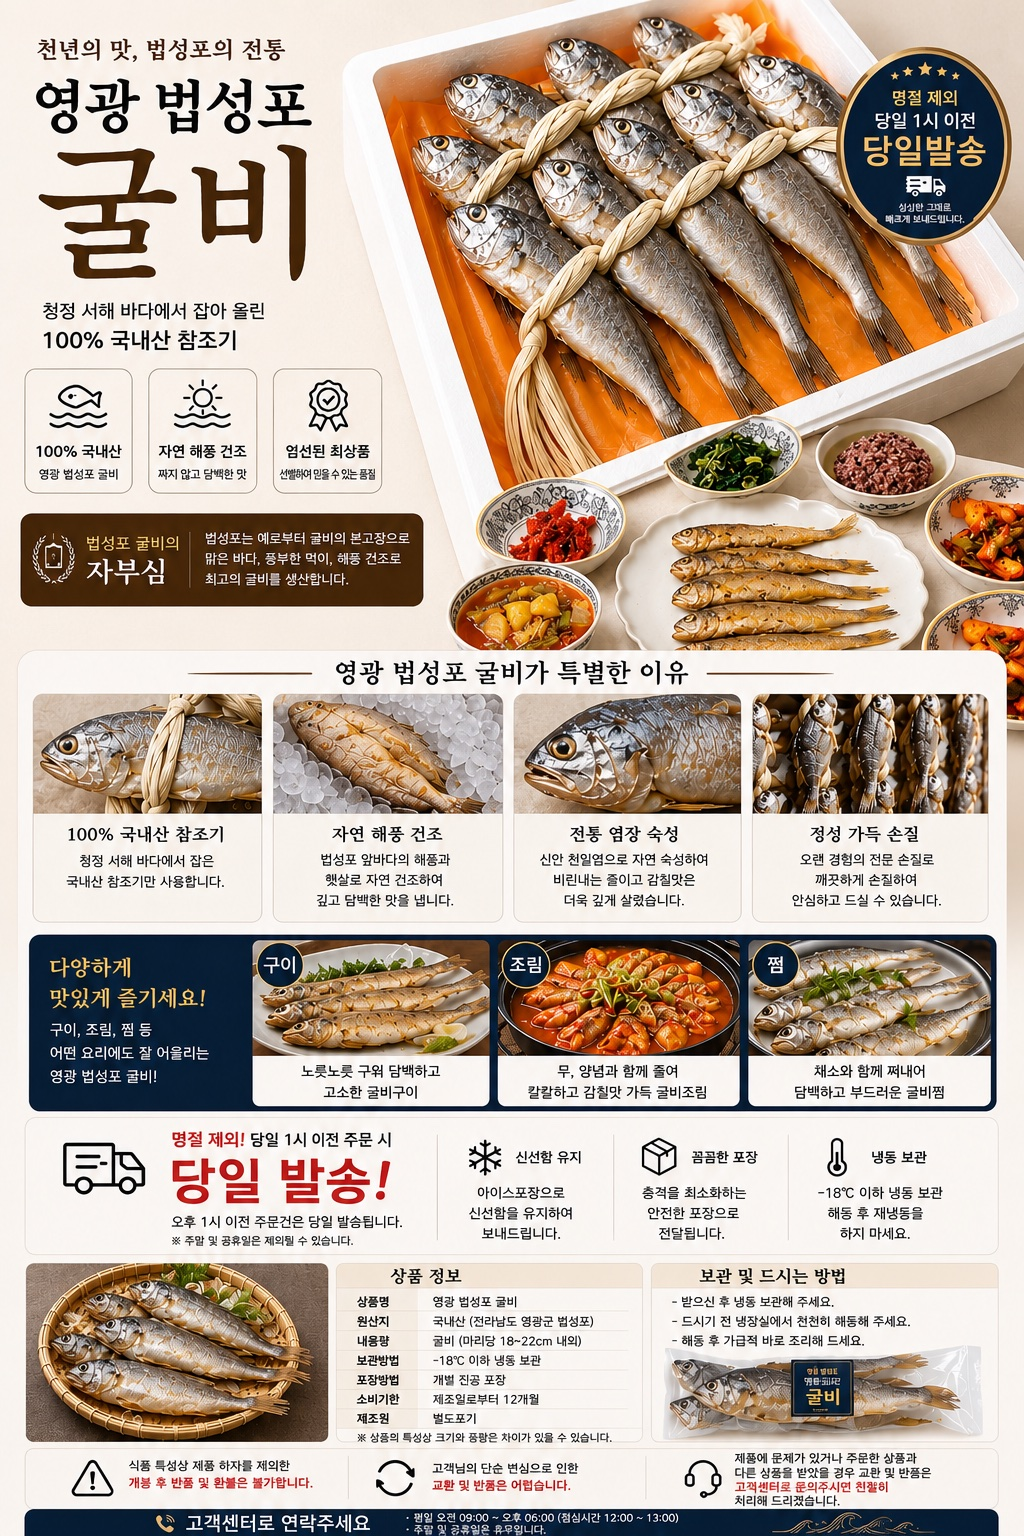
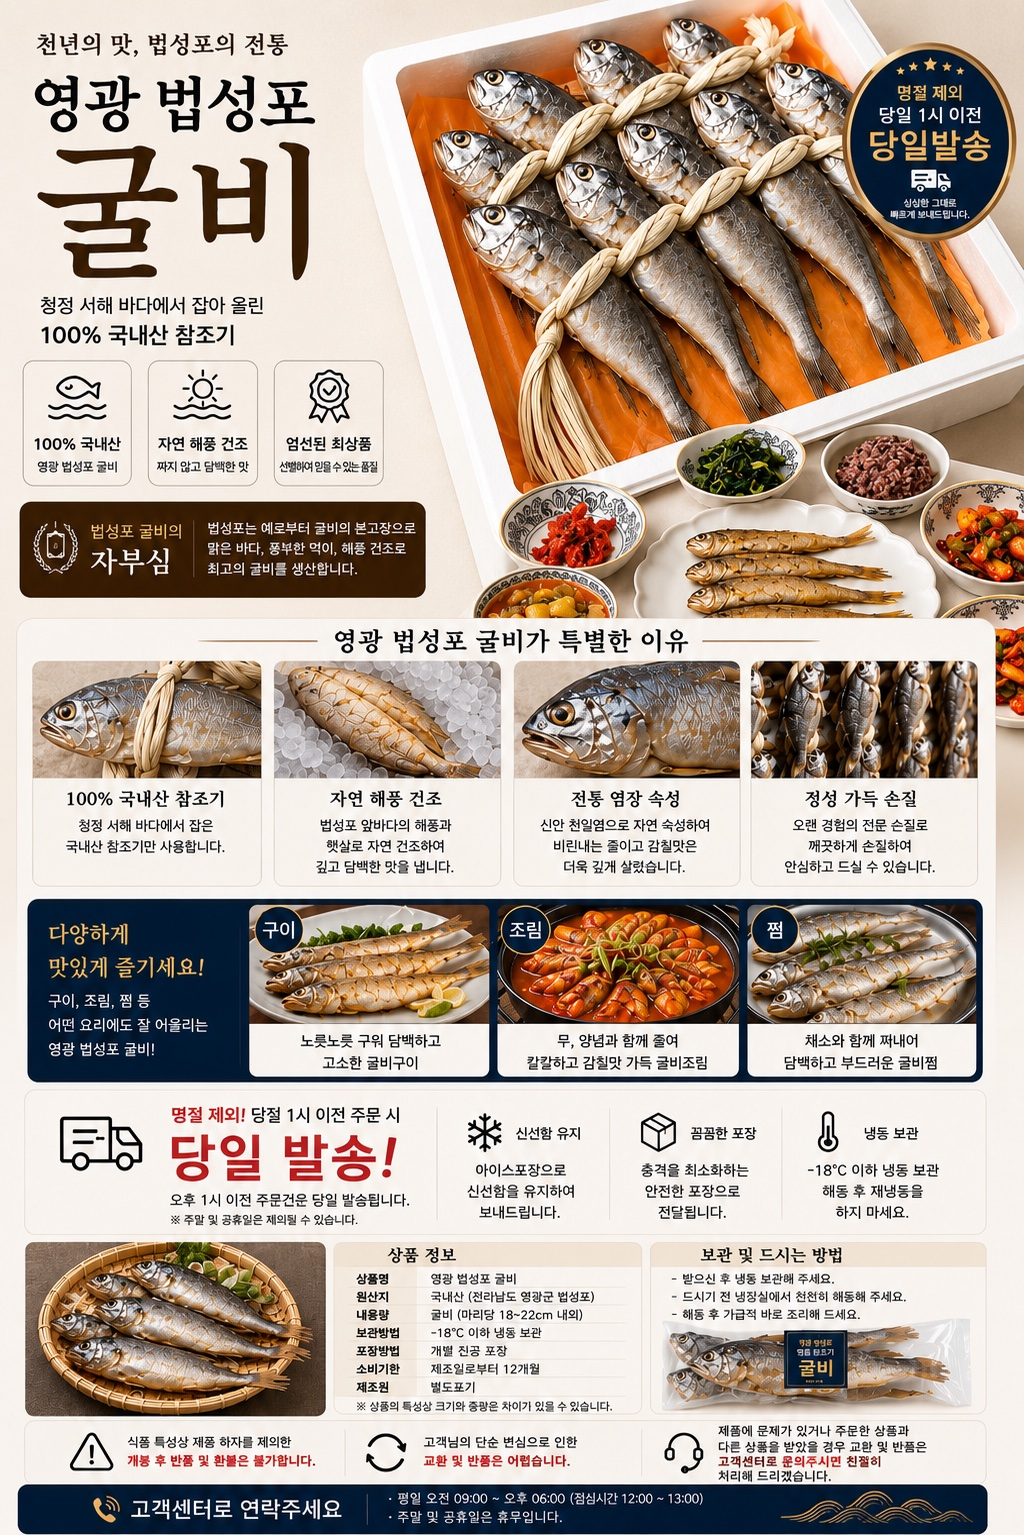
굴비 상세이미지 교체 + 상품상세 스크롤 렉 수정
- 굴비 상세페이지 이미지 신규 버전으로 교체
- sticky 헤더/고정 구매바의 backdrop-filter blur(20px) 제거
  (headerBg가 이미 97% 불투명이라 시각차 없이 스크롤 렉만 해소)

diff --git a/app/shop/product/[id]/page.tsx b/app/shop/product/[id]/page.tsx
@@ -416,7 +416,7 @@ export default function ProductDetailPage() {
       )}
 
       {/* 헤더 */}
-      <header style={{background:D.headerBg,backdropFilter:'blur(20px)',borderBottom:`1px solid ${D.border}`,position:'sticky',top:0,zIndex:50}}>
+      <header style={{background:D.headerBg,borderBottom:`1px solid ${D.border}`,position:'sticky',top:0,zIndex:50}}>
         <div style={{maxWidth:'1100px',margin:'0 auto',padding:'0 20px',height:'60px',display:'flex',alignItems:'center',justifyContent:'space-between'}}>
           <div style={{display:'flex',alignItems:'center',gap:'14px'}}>
             <button onClick={() => router.back()} style={{background:D.input,border:'none',borderRadius:'10px',width:'36px',height:'36px',cursor:'pointer',fontSize:'16px',display:'flex',alignItems:'center',justifyContent:'center',color:D.text}}>←</button>
@@ -690,7 +690,7 @@ export default function ProductDetailPage() {
 
       {/* ── 모바일 전용 하단 고정 구매바 ── */}
       {!showOrderForm && (
-        <div className="mobile-buybar" style={{position:'fixed',bottom:0,left:0,right:0,zIndex:60,background:D.headerBg,backdropFilter:'blur(20px)',borderTop:`1px solid ${D.border}`,padding:'10px 16px calc(10px + env(safe-area-inset-bottom))',display:'flex',alignItems:'center',gap:'12px',boxShadow:'0 -6px 24px rgba(0,0,0,0.1)'}}>
+        <div className="mobile-buybar" style={{position:'fixed',bottom:0,left:0,right:0,zIndex:60,background:D.headerBg,borderTop:`1px solid ${D.border}`,padding:'10px 16px calc(10px + env(safe-area-inset-bottom))',display:'flex',alignItems:'center',gap:'12px',boxShadow:'0 -6px 24px rgba(0,0,0,0.1)'}}>
           <button onClick={toggleLike} aria-label="찜하기" style={{width:'48px',height:'48px',flexShrink:0,borderRadius:'14px',border:`1.5px solid ${D.border}`,background:'transparent',cursor:'pointer',fontSize:'22px',display:'flex',alignItems:'center',justifyContent:'center'}}>
             {liked ? '❤' : '🤍'}
           </button>
